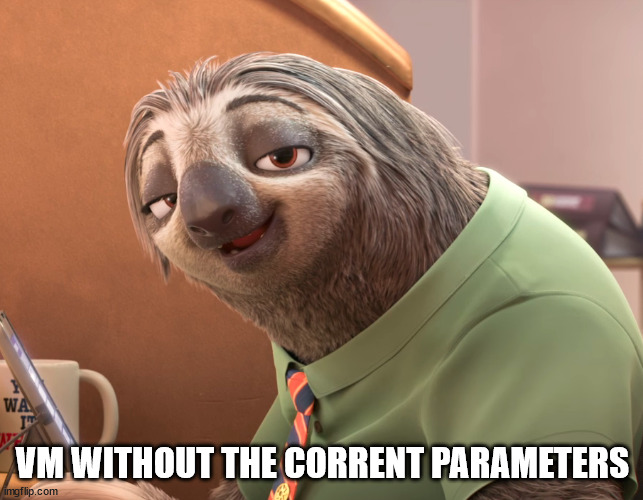
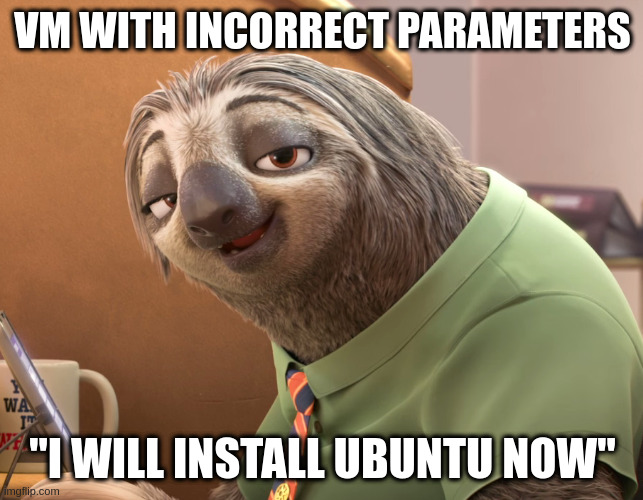
moved repo to linux

Changed region(s): [[0.0, 0.0, 0.9953, 0.12], [0.0, 0.84, 0.9953, 1.0]]

diff --git a/README_windows.md b/README_windows.md
@@ -25,22 +25,25 @@ This creates a small problem: I only have a linux laptop with a small screen (15
 The computer mounted to the big screens is running on Windows 11. Of course I can create a linux VM and start developing inside of it, but for testing I need a nested VM inside the linux VM and this stinks.  
 ![drake does not like the movie inception](/img/inception.jpg)  
 
-I made a noval approach working with WSL, but I surrendered when mounting the qcow2 image, since this is not an easy task on an Windows machine using WSL. So, fortunetly a few days ago I switched the M.2 SSD in one of my laptops to a bigger one, so I got an unused 128 GB M.2 SSD on my hands. I installed it in my desktop computer and setup dual boot, so now I am working on a workhorse with linux.
-Wohoooo.
+But luckily, newer Windows versions feature the brilliant Windows-Subsystem for Linux (WSL). 
+Eventhough I did not except it to work, for the moment I can start a qemu VM with ubuntu and attach GDB as a debugger. 
+Wohooo!  
 
+
+So with this achivement, the development is completely done on my Windows machine, using WSL, qemu and GDB.
 Since I can reuse code parts of my master thesis, the controller is written in GOlang. As far as possible I will try to avoid writing bare ASM, but C. For compiling I will use gcc and go.
 
 ```console
 matze@Matze-PC:~/evil-maid/vm$ uname -a
-Linux matze-linux 5.15.0-47-generic #51-Ubuntu SMP Thu Aug 11 07:51:15 UTC 2022 x86_64 x86_64 x86_64 GNU/Linux
+Linux Matze-PC 5.10.16.3-microsoft-standard-WSL2 #1 SMP Fri Apr 2 22:23:49 UTC 2021 x86_64 x86_64 x86_64 GNU/Linux
 matze@Matze-PC:~/evil-maid/vm$ gdb --version
-GNU gdb (Ubuntu 12.0.90-0ubuntu1) 12.0.90
+GNU gdb (Ubuntu 9.1-0ubuntu1) 9.1
 ```
 
 ## Setting up the VM ##
 For testing purposes an ubuntu VM is setup in qemu.
-I use qemu because I know it from my master thesis, it is lightweight and it runs on WSL (eventhough I don't need that future anymore, since I work on an ubuntu machine).
-Just for protocoll, this is the used qemu version: QEMU emulator version 6.2.0 (Debian 1:6.2+dfsg-2ubuntu6.3)  
+I use qemu because I know it from my master thesis, it is lightweight and it runs on WSL.
+Just for protocoll, this is the used qemu version: QEMU emulator version 4.2.0 (Debian 1:4.2-3ubuntu6)  
 I setup the VM using a simple web [tutorial](https://graspingtech.com/ubuntu-desktop-18.04-virtual-machine-macos-qemu/), but instead of 18.04, I use [Ubuntu 22.04.1 LTS (Jammy Jellyfish)](https://releases.ubuntu.com/22.04/) since it is the newest version currently available. I hope this doesn't backfire :wink:. Like in the tutorial I use 10GB of space, I hope this is enough.  
 I don't want to heavily increase the size of this repo by commiting the VM, so it is excluded and can be downloaded [here](https://here-the-author-must-include-a-link.com).
 
@@ -53,16 +56,19 @@ I choose not to use a recovery key, I think I can remeber the password, since it
 
 ## Getting access to the qcow2-Iamge content ##
 For attacking the unencrypted boot-section of the Image, it is really helpful to be able to mount the partitions of the qcow2 file.
-Mounting the qcow2 image on ubuntu is pretty easy, using [this tutorial](https://gist.github.com/shamil/62935d9b456a6f9877b5).
-There is just a small catch: I cannot start the VM while the image is mounted due to the requirement of write access.
-So I wrote to simple scripts, one for mounting the boot partition and one for unmounting the partition and now I am fine.
-Man, this is so much easier then over WSL.
+To my misfortune, this is easier said then done. Mounting a qcow2 Image on WSL is sadly not possible by using [nbd](https://gist.github.com/shamil/62935d9b456a6f9877b5).  
+After some research I found a promising [Stack-Overflow Thread](https://stackoverflow.com/questions/53874221/mount-disk-image-on-wsl-windows-subsystem-for-linux), where mounting an ISO image is described.
+Converting qcow2 to an iso is quite a challenge, I found [this manual](https://docs.openstack.org/image-guide/convert-images.html), where converting a qcow2 image to an raw image and [this page](https://www.maketecheasier.com/convert-img-to-iso-linux/), where multiple ways to convert a raw image to an iso file are described. Using ccd2iso did not work on my machine, but iat is running since 4 hours and it might finish in a few days ...
+
+I must be able to analyze the content of the image, to continue. Of course, I can export the required files out of while the qemu machine is running, but I want to have a look at the encrypted image right now. So I did the only logic thing and setup a VM in VMWare, where I share the vm folder and mount the qcow2 there. There are probably far better solutions, but now I am able to mount the qcow image using [this tutorial](https://unix.stackexchange.com/a/598265) and edit it from inside my VMWare Linux VM.
 
 # Research # 
 
 ## Analyze the unencrypted root partition ##
 
 ```console
+matze@matze-virtual-machine:/media/matze/79c7119f-3fb9-4133-958a-baccc110e8f6$ ls -la
+total 251408
 drwxr-xr-x  5 root root      4096 Aug 30 18:35 .
 drwxr-x---+ 3 root root      4096 Sep  2 18:39 ..
 -rw-r--r--  1 root root    261694 Jul 12 10:51 config-5.15.0-43-generic
@@ -91,9 +97,3 @@ The important parts of the folder are described on [this website](https://wiki.d
 - *System.map-5.15.0-46-generic* contains symbol names and addresses of the linux kernel binary. It is probably helpful to reverse enginner the functions responsible for handling the keyphrase.  
 - *initrd.img-5.15.0-46-generic* is a small, temporary, root filesystem used solely for boot strapping your system. This could be the binary responsible for handling the keyphrase. If that is the case, we probably cannot use the System.map for reverse engineering, since it not contains the function addresses of the initrd. Futhermore we have to take a deep dive into the limited functionality available during the startup process.  
 - *vmlinuz-5.15.0-46-generic* is the compiled kernel binary. I hope the keyphrase handling is done in here, since then we would be able to execute system calls and some other nice stuff.
-
-## Find the entry point ##
-
-There are several imaginable ways to find the code section, where the keyphrase is handeled and it is hard to predict the easiest one.
-So I decided to try it by booting up the VM and waiting for the keyphrase enter screen to appear. Then I attach GDB which pauses the VM and prints out the current position of the RIP (Instruction pointer). The address of the RIP in the VM is 0xffffffff81daa6bb :sunglasses:.  
-So I stop the VM, mount the boot drive and use the System.map to map the address to the corresponding method. The address is located in the function native_safe_halt :disappointed:. I don't even need to investigate this function any futher. That is the idle loop, cpu cores chilling in, when they have nothing else to do. Looking back, it is no big suprise, since the cpu core really does not have any job  except waiting for the user input. But it is actually not that big of a deal, since we can investigate, where the native_safe_halt function is called from, by looking at the return address on the stack.
